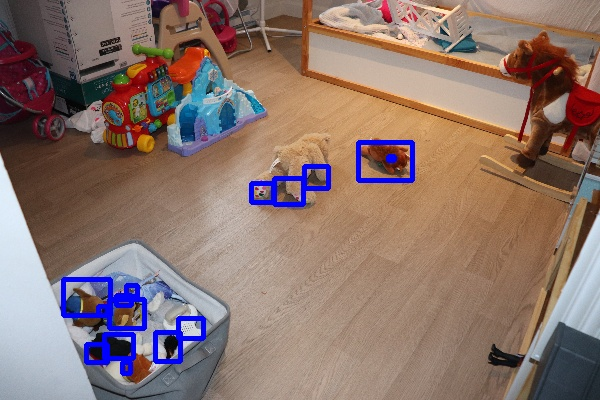
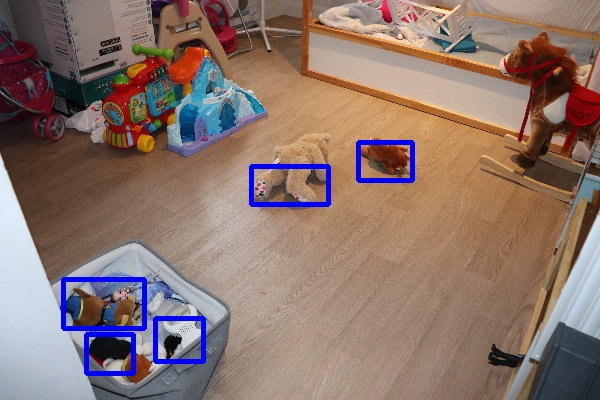
bounding boxes update

diff --git a/main.py b/main.py
@@ -5,12 +5,13 @@ from skimage.metrics import structural_similarity
 import numpy as np
 import cv2
 
-
 # --- Constantes ---
 CHAMBRE_REPO = '/Chambre'
 CUISINE_REPO = '/Cuisine'
 SALON_REPO = '/Salon'
 DIM_IMG = (600, 400)
+PX = 0
+
 
 def imgLoad(repo):
     img_list = []
@@ -32,7 +33,30 @@ def saveResults(repo, img):
     cv2.imwrite('./results' + repo + '/' + 'RESULT_' + img[0], img[1])
 
 
-def drawBoundingBoxes(img, img_ref):
+def sortBoundingBoxes(bb_array):
+    for cbb in bb_array:
+        for bb in bb_array:
+            if cbb != bb and isOverlapping(cbb, bb):
+                cbb[0] = min(cbb[0], bb[0])
+                cbb[1] = min(cbb[1], bb[1])
+                cbb[2] = max(cbb[2], bb[2])
+                cbb[3] = max(cbb[3], bb[3])
+
+
+def isOverlapping(cbb, bb):
+    if bb[0]-PX <= cbb[0] <= bb[2]+PX and bb[1]-PX <= cbb[1] <= bb[3]+PX:
+        return True
+    if bb[0]-PX <= cbb[2] <= bb[2]+PX and bb[1]-PX <= cbb[1] <= bb[3]+PX:
+        return True
+    if bb[0]-PX <= cbb[0] <= bb[2]+PX and bb[1]-PX <= cbb[3] <= bb[3]+PX:
+        return True
+    if bb[0]-PX <= cbb[2] <= bb[2]+PX and bb[1]-PX <= cbb[3] <= bb[3]+PX:
+        return True
+    else:
+        return False
+
+
+def threshMask(img, img_ref):
     # RGB -> GREY
     img_grey = cv2.cvtColor(img, cv2.COLOR_BGR2GRAY)
     img_ref_grey = cv2.cvtColor(img_ref, cv2.COLOR_BGR2GRAY)
@@ -44,7 +68,7 @@ def drawBoundingBoxes(img, img_ref):
     abs_diff = cv2.absdiff(img_ref_grey, img_grey)
 
     # Gaussian Blur
-    struct_diff = cv2.GaussianBlur(struct_diff, (7, 7), cv2.BORDER_DEFAULT)  # peut-être (5, 5)
+    struct_diff = cv2.GaussianBlur(struct_diff, (7, 7), cv2.BORDER_DEFAULT)
     abs_diff = cv2.GaussianBlur(abs_diff, (3, 3), cv2.BORDER_DEFAULT)
 
     # Threshold
@@ -52,8 +76,8 @@ def drawBoundingBoxes(img, img_ref):
     abs_thresh = cv2.threshold(abs_diff, 60, 255, cv2.THRESH_BINARY)[1]
 
     # erode/dilate
-    struct_thresh = cv2.erode(struct_thresh, np.ones((3, 3), np.uint8))
     struct_thresh = cv2.dilate(struct_thresh, np.ones((9, 9), np.uint8))
+    struct_thresh = cv2.erode(struct_thresh, np.ones((3, 3), np.uint8))
 
     abs_thresh = cv2.erode(abs_thresh, np.ones((3, 3), np.uint8))
     abs_thresh = cv2.dilate(abs_thresh, np.ones((9, 9), np.uint8))
@@ -65,17 +89,36 @@ def drawBoundingBoxes(img, img_ref):
     """
     cv2.imshow("struct_thresh", struct_thresh)
     cv2.imshow("abs_thresh", abs_thresh)
+    """
     cv2.imshow("thresh comparison", final_thresh)
     cv2.waitKey(0)
     cv2.destroyAllWindows()
-    """
 
-    # bounding boxes
-    edges = cv2.findContours(final_thresh, cv2.RETR_LIST, cv2.CHAIN_APPROX_SIMPLE)[0]
+    return final_thresh
 
+
+def makeBoundingBoxes(thresh):
+
+    edges = cv2.findContours(thresh, cv2.RETR_LIST, cv2.CHAIN_APPROX_SIMPLE)[0]
+
+    bb_array = []
     for i in range(len(edges)):
         x, y, w, h = cv2.boundingRect(edges[i])
-        cv2.rectangle(img, (x, y), (x + w, y + h), (255, 0, 0), 3)
+        bb_array.append([x, y, x+w, y+h])
+
+    sortBoundingBoxes(bb_array)
+    sortBoundingBoxes(bb_array)
+    #print(bb_array)
+
+    bb_array = cv2.groupRectangles(np.concatenate((bb_array, bb_array)), groupThreshold=1, eps=0.2)[0]
+    #print(bb_array)
+
+    return bb_array
+
+
+def drawBoundingBoxes(img, bb_array):
+    for bb in bb_array:
+        cv2.rectangle(img, (bb[0], bb[1]), (bb[2], bb[3]), (255, 0, 0), 3)
 
     # affichage img finale
     cv2.imshow("image finale", img)
@@ -89,7 +132,9 @@ def main():
     repo = SALON_REPO
     img_list, img_ref = imgLoad(repo)
     for img in img_list:
-        final_img = [img[0], drawBoundingBoxes(img[1], img_ref)]
+        thresh = threshMask(img[1], img_ref)
+        bb_array = makeBoundingBoxes(thresh)
+        final_img = [img[0], drawBoundingBoxes(img[1], bb_array)]
         saveResults(repo, final_img)
 
 
